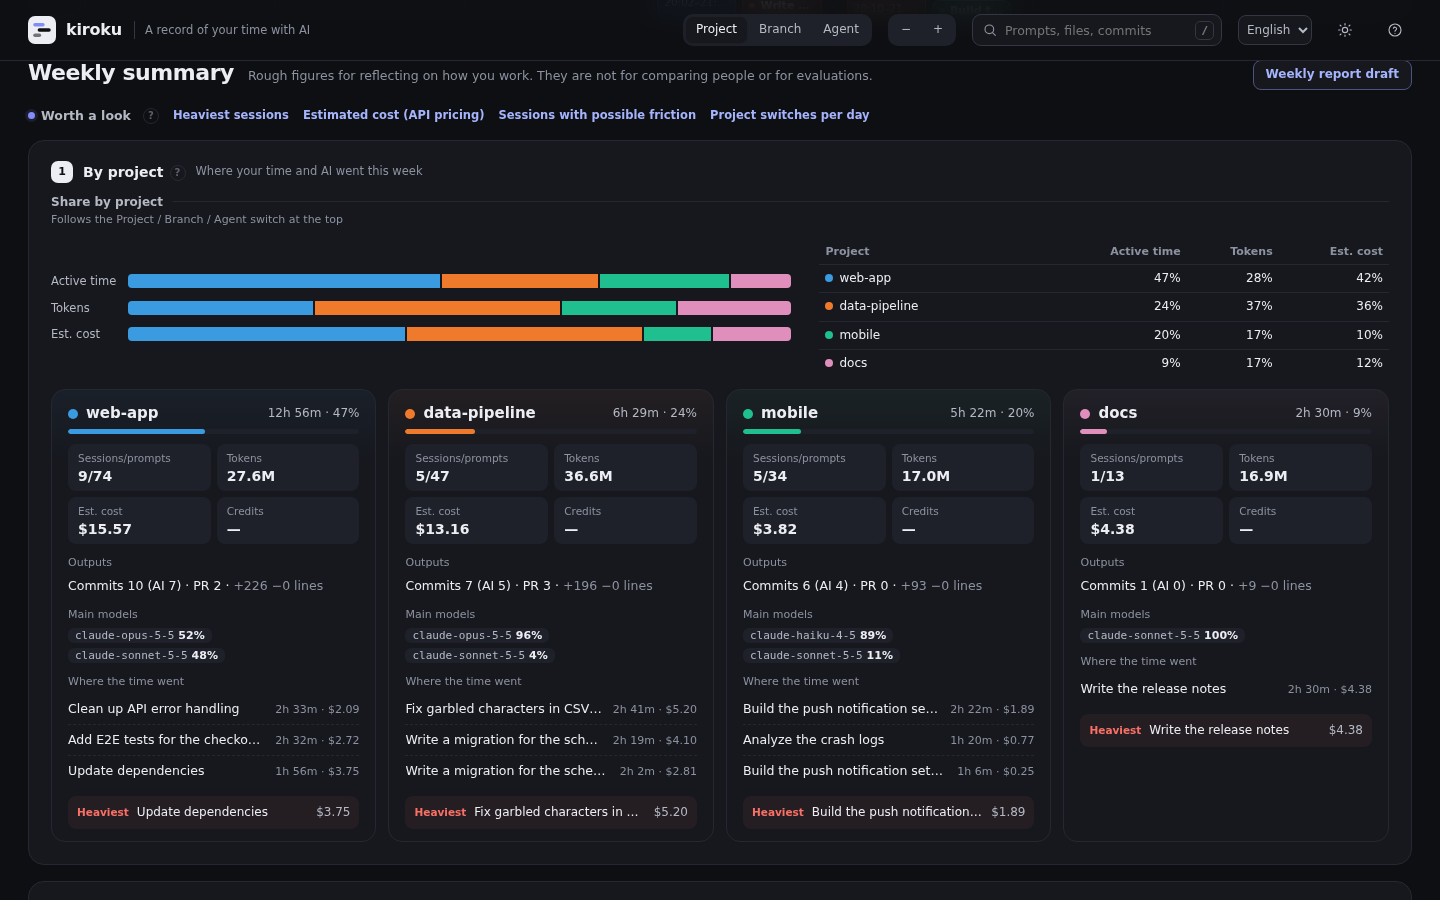
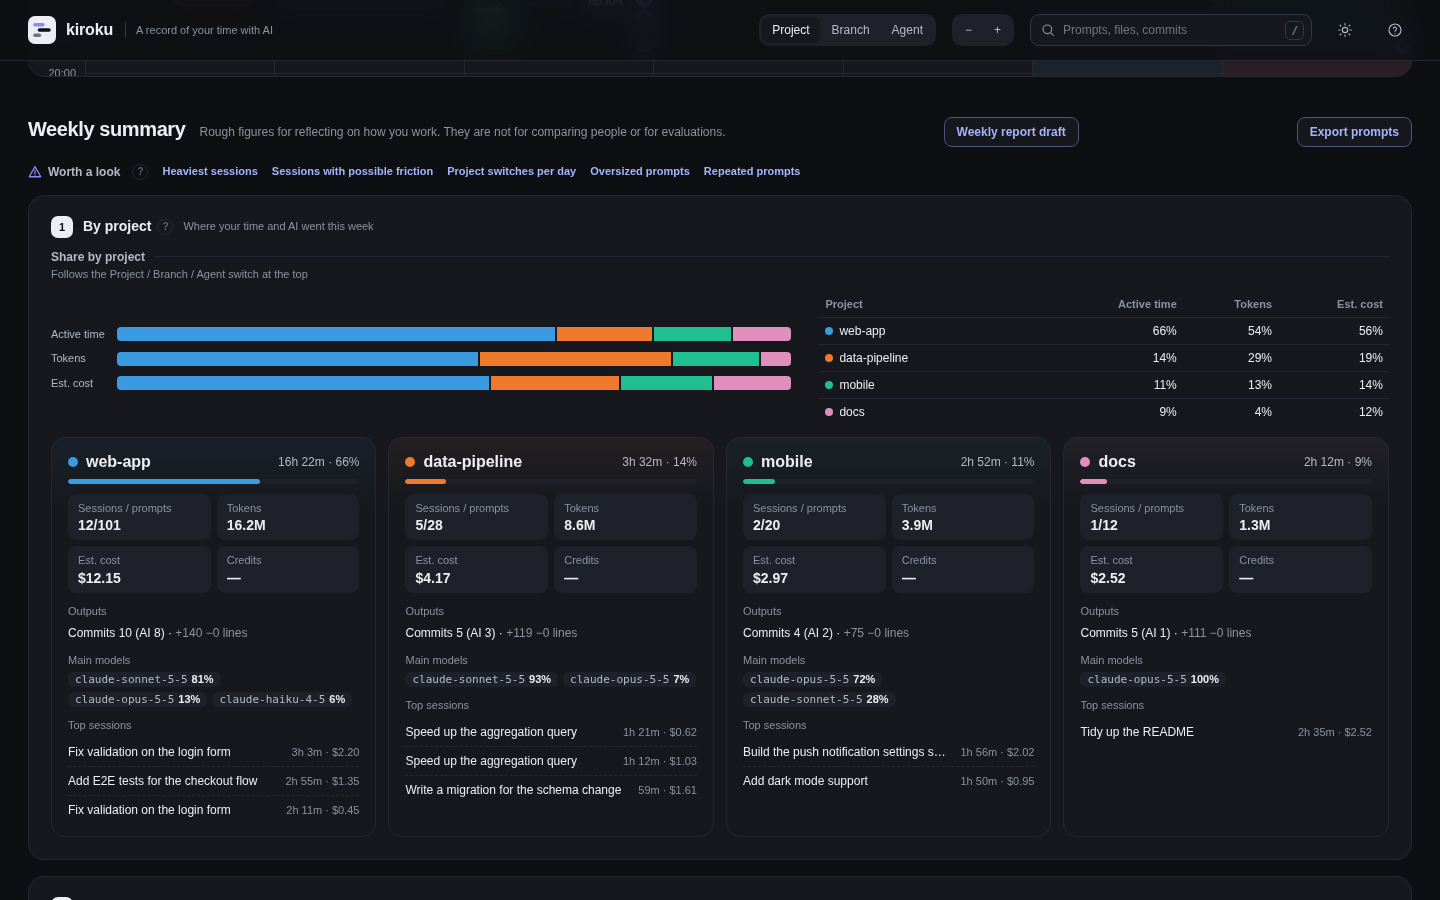
形で見分けられる小さな印を足し、README とスクリーンショットを最新にする (#114)

diff --git a/internal/web/style.css b/internal/web/style.css
@@ -190,14 +190,15 @@ kbd{font:var(--fs-xs)/1 var(--mono);padding:3px 5px;border-radius:5px;border:1px
 .flagsum{display:flex;flex-wrap:wrap;align-items:center;gap:6px 14px;margin:0 0 14px;font-size:var(--fs-sm)}
 .flagsum .lbl{display:inline-flex;align-items:center;gap:6px;font-weight:600;color:var(--ink-2)}
 .flagsum .hint{flex-basis:100%}
-.fdot{display:inline-block;width:7px;height:7px;border-radius:50%;background:var(--acc);box-shadow:0 0 0 3px var(--acc-soft);flex:none}
+.ic{width:14px;height:14px;fill:none;stroke:currentColor;stroke-width:1.5;stroke-linecap:round;stroke-linejoin:round;flex:none;vertical-align:-2px} /* 形で見分ける印（app.js の ICON_PATH） */
+.fdot{color:var(--acc)} /* 見直す候補の印 */
 .stat.flagged{box-shadow:inset 3px 0 0 var(--acc);grid-column:1/-1}
 .fl .more{margin:0;font-size:var(--fs-xs)}
-.moreS summary .fdot{margin-left:8px;vertical-align:1px}
+.moreS summary .fdot{margin-left:8px}
 .fl{display:flex;flex-direction:column;gap:6px;margin-top:8px;padding:8px 0 2px;border-top:1px dashed var(--rule-2);min-width:0;overflow-wrap:anywhere}
 .fl p{margin:0}
 .fl .see{font-size:var(--fs-sm);font-weight:600;line-height:1.6;color:var(--ink)}
-.fl .see .fdot{margin-right:7px;vertical-align:1px}
+.fl .see .fdot{margin-right:6px}
 .fl .rule{font-size:var(--fs-xs);color:var(--ink-3)}
 .fl .why{font-size:var(--fs-xs);color:var(--ink-2);line-height:1.6}
 .sact{display:flex;flex-direction:column;gap:6px;margin-top:14px;padding:12px 14px;border-radius:10px;background:var(--acc-soft)}
@@ -386,10 +387,12 @@ h3::after{content:"";flex:1;height:1px;background:var(--rule)}
 .tl li::before{content:"";position:absolute;left:41px;top:12px;width:7px;height:7px;border-radius:50%;background:var(--surface);box-shadow:inset 0 0 0 1.5px var(--c)}
 .tl li.fix::before{background:var(--warn);box-shadow:none}
 .tl li.ev{font-size:var(--fs-sm);color:var(--ink-2);padding:2px 0}
-.tl li.ev::before,.tlkey .ke{border-radius:1px;transform:rotate(45deg);background:var(--ink-3);box-shadow:none}
+.tl li.ev::before{display:none}
+.tl li.ev>.ic{position:absolute;left:38px;top:5px;width:13px;height:13px;padding:1px;box-sizing:content-box;background:var(--surface);color:var(--ink-3)} /* 出来事は点の代わりに種類の印（線の上に重ねる） */
+.drawer .tl li.ev>.ic{left:42px;top:7px}
 .tl li.ev::before{top:10px;width:6px;height:6px;left:41.5px}
-.tl li.ev.ai::before,.tlkey .ke.ai{background:var(--acc)}
-.tl li.ev.int::before,.tl li.ev.warn::before,.tlkey .ke.int{background:var(--warn);transform:none}
+.tl li.ev.ai>.ic,.tl li.ev.pr>.ic,.tlkey .kev.commit .ic,.tlkey .kev.pr .ic{color:var(--acc)}
+.tl li.ev.int>.ic,.tl li.ev.warn>.ic,.tlkey .kev.int .ic,.tlkey .kev.warn .ic{color:var(--warn)}
 .tl li.ev.int .evl,.tl li.ev.warn .evl{color:var(--warn);font-weight:600}
 .tl li.pr:focus{outline:none}.tl li.pr:focus-visible{outline:2px solid var(--acc);outline-offset:2px;border-radius:6px}
 .tl li.ev p{display:flex;gap:6px;min-width:0;white-space:nowrap}
@@ -402,7 +405,7 @@ h3::after{content:"";flex:1;height:1px;background:var(--rule)}
 .tl .pcut{color:var(--ink-3);white-space:normal;font-size:var(--fs-xs)}
 .tlkey{display:flex;flex-wrap:wrap;gap:4px 14px;margin:0 0 8px;font-size:var(--fs-xs);color:var(--ink-3)}
 .tlkey span{display:inline-flex;align-items:center;gap:6px}
-.tlkey i{flex:none;width:7px;height:7px}
+.tlkey i{flex:none;width:7px;height:7px}.tlkey .ic{width:12px;height:12px}
 .tlkey .kp{border-radius:50%;box-shadow:inset 0 0 0 1.5px var(--c)}.tlkey .kp.fix{background:var(--warn);box-shadow:none}
 .pload{font-size:var(--fs-xs);color:var(--acc-ink);font-weight:600;padding:1px 8px;border:1px solid var(--acc);border-radius:99px;margin-left:2px}.pload:hover{text-decoration:underline}
 .tl time{color:var(--ink-3);font-variant-numeric:tabular-nums;font-size:var(--fs-xs);padding-top:1px}
@@ -414,7 +417,7 @@ h3::after{content:"";flex:1;height:1px;background:var(--rule)}
 .tl .pkind{display:inline-block;margin-right:6px;padding:0 6px;border-radius:5px;font-size:var(--fs-xs);font-weight:600;line-height:1.6;vertical-align:1px;color:var(--c4);background:color-mix(in oklab,var(--c4) 16%,transparent)}
 .tl .pkind.big{color:var(--warn);background:color-mix(in oklab,var(--warn) 14%,transparent)}
 .tl li.ev.note{color:var(--ink-3)}.tl li.ev.note .evl{color:var(--c6)}
-.tl li.ev.note::before,.tlkey .ke.note{background:var(--c6)}
+.tl li.ev.note>.ic,.tlkey .kev.note .ic{color:var(--c6)}
 .tlkey .kp.cmd{box-shadow:inset 0 0 0 1.5px var(--c4)}
 .tl.only-user li.ev,.tl.only-user li.gap{display:none}
 .flowbar{display:flex;flex-wrap:wrap;align-items:center;justify-content:space-between;gap:8px;margin:0 0 10px}
@@ -623,3 +626,7 @@ dialog.yr h3{font:700 var(--fs-xl)/1.5 var(--sans);margin:30px 0 10px}
 @media (prefers-reduced-motion:reduce){*,*::before,*::after{animation:none!important;transition:none!important;scroll-behavior:auto!important}}
 @media (forced-colors:active){.run{border:1px solid CanvasText}}
 @media (max-width:400px){.cell{padding:5px 3px 6px}.cell .acs{font-size:var(--fs-xs)}.cell .uss{font-size:var(--fs-2xs)}} /* いちばん狭い画面でも、月のマスの時間とトークンが切れないように */
+
+.pkind .ic{width:11px;height:11px;margin-right:3px;vertical-align:-1px} /* コマンド（/）・シェル（>_） */
+.lim{display:inline-flex;align-items:center;gap:3px}.lim .ic{width:10px;height:10px;stroke-width:1.8} /* 利用上限 */
+.agm{display:inline-grid;place-items:center;min-width:14px;height:14px;padding:0 3px;margin-right:5px;border-radius:4px;border:1px solid var(--rule-2);background:var(--surface-2);color:var(--ink-2);font:700 var(--fs-2xs)/1 var(--mono);font-style:normal;letter-spacing:0;text-transform:none;vertical-align:1px} /* エージェントの頭文字（ロゴは使わない） */

diff --git a/README.md b/README.md
@@ -22,9 +22,10 @@ kiroku connects to the network only when `install.sh` or `kiroku update` (includ
 
 ![kiroku (dummy data)](docs/screenshot.png)
 
-- **Calendar**: when, in which project, and what you asked, by week or month. Your local git commits appear alongside, so you can see what changed where.
+- **Calendar**: when, in which project, and what you asked, by week or month. Each day (and each week in the month view) shows its active time, tokens or credits, sessions and Git commits, and your local commits appear alongside the sessions, so you can see what changed where.
 - **Worth a look**: metrics that crossed a threshold are marked where they appear, with what was observed, why it matters, the related sessions and an 8-week (or 8-month) trend, and listed in priority order at the top of the summary.
-- **Summary**: cost (time, tokens, estimated cost, credits) next to outputs (commits, cost per commit, sessions that reached a commit), by project and by day. Share bars compare each project's, branch's or agent's share of active time with its share of tokens, estimated cost and credits. It also picks up prompts you keep typing, which you could save as a command or in CLAUDE.md. Every metric explains what it can and cannot tell you.
+- **Summary**: cost (time, tokens, estimated cost, credits) next to outputs (commits, cost per commit, sessions that reached a commit), by project, plus a daily trend chart. Share bars compare each project's, branch's or agent's share of active time with its share of tokens, estimated cost and credits. It also picks up prompts you keep typing, which you could save as a command or in CLAUDE.md. Every metric explains what it can and cannot tell you.
+- **Session details**: the prompt flow with times, separating what you typed (including slash commands and `!` shell commands) from what entered the conversation on its own, with commits, subagents, interruptions and usage limits in between. Copy just your prompts, or a prompt that asks an AI to review the session.
 - **Search and weekly report**: search prompts, edited files and commits across all time, and preview and copy a weekly or monthly report draft of what you did, your commits and pull requests.
 - **Ask AI for suggestions**: build a prompt from the shown week, month or a single session that asks an AI for suggestions on how you use it. Copy it into the agent you already use.
 
@@ -54,7 +55,7 @@ kiroku can only show history that your agents still keep, and **Claude Code dele
 
 If you'd rather not change it, run `kiroku archive on` and kiroku keeps compressed copies of that history on your computer and shows deleted conversations from them ([details](docs/guide.md#keep-a-copy-of-history-in-kiroku)).
 
-kiroku shows a notice above the summary while Claude Code is still on its 30-day default. Kiro Crew also deletes old conversation records (`session.archive_retention_days`); kiroku notes this under "Data sources". See [History retention](docs/guide.en.md#history-retention) for each agent.
+kiroku shows a notice above the summary while Claude Code is still on its 30-day default. Kiro Crew also deletes old conversation records (`session.archive_retention_days`); kiroku notes this under "Data sources". See [History retention](docs/guide.md#history-retention) for each agent.
 
 ## Update
 

diff --git a/CHANGELOG.md b/CHANGELOG.md
@@ -6,6 +6,8 @@ Notable changes to kiroku, in the style of [Keep a Changelog](https://keepachang
 
 ### Changed
 
+- README and screenshots show the current view, and the README describes the session details and the four daily figures in the calendar
+- Small icons tell things apart by shape, not only by color: events in the prompt flow (commit, pull request, subagent, interruption, usage limit, added automatically) and its legend, Command (/) and Shell (>_) tags, the "Worth a look" mark (a warning sign instead of a dot), the usage-limit marker in the week calendar, and agent initials (CC, KI, KC, KW, Q, CX) in the legend and session details. Each icon sits next to its text label
 - "Cost and outputs" no longer shows pull requests and lines edited by AI: they were only counted from Claude Code tool calls on this computer, so they often read 0. Git commits (with their lines) remain. The project cards and the "Ask AI" prompt drop them too; pull request links still appear in a session's details and in the report draft when they were recorded
 - "Compared" is no longer a separate row: estimated cost per commit and sessions that reached a commit now sit under "Outputs". The two sides are now called "Cost" and "Outputs" (were "Spent" and "Left behind"), matching the panel name
 - Credits are shown as whole numbers (below 1, with two decimals)
